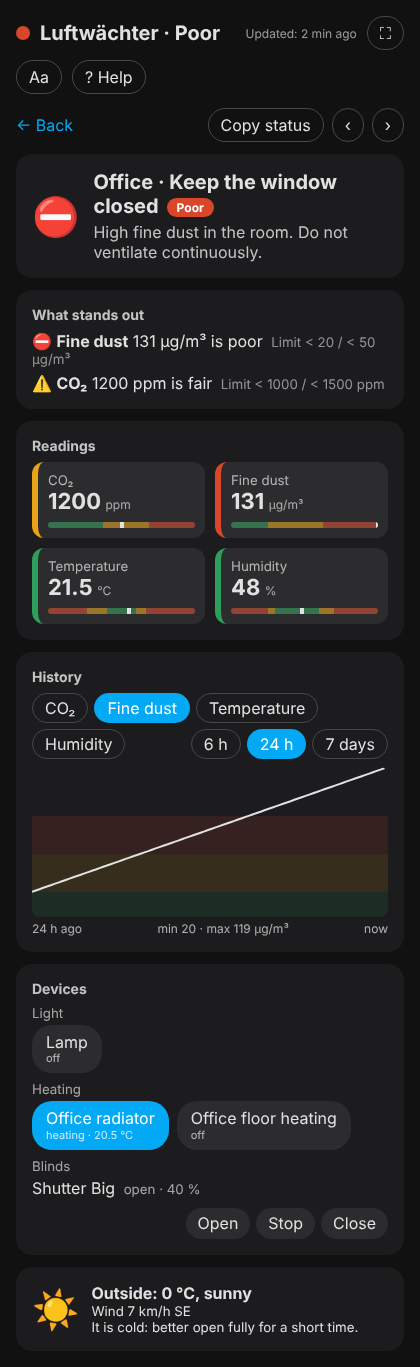
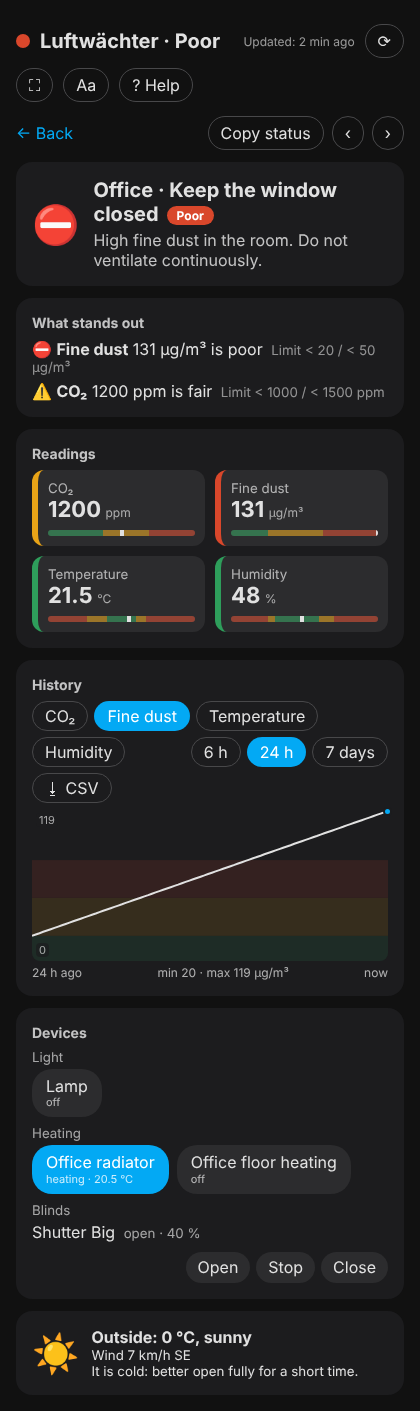
0.6.0: readings on tiles, CO2 ranking, chart axes and CSV, rotate mode, wake lock, hide areas, light theme check, demo GIF
Claude-Session: https://claude.ai/code/session_01W38UNCWRvMYfcRr6jVyi8m

diff --git a/custom_components/luftwaechter/frontend/luftwaechter-panel.js b/custom_components/luftwaechter/frontend/luftwaechter-panel.js
@@ -11,7 +11,7 @@ const UI = {
     cover_open: "Auf", cover_stop: "Stopp", cover_close: "Zu", allgood: "Alle Werte im grünen Bereich.",
     isPoor: "ist schlecht", isFair: "ist mittel", tooHigh: "zu hoch", tooLow: "zu niedrig", limit: "Grenze",
     attention: "Jetzt tun", nothing: "Nichts zu tun, alles in Ordnung.", rooms_n: "{a} von {n} Räumen brauchen Aufmerksamkeit", stale: "Die Daten sind möglicherweise veraltet (letztes Update vor {n} min).",
-    size: "Textgröße", onbTitle: "So kommen Räume ins Panel", onb1: "Weise CO₂-, Feinstaub-, Temperatur- oder Luftfeuchte-Sensoren einem Bereich zu (Einstellungen → Bereiche).", onb2: "Der Raum erscheint automatisch, sobald ein Sensor Werte liefert.", onb3: "Optional: Gib einem Fenstersensor die Geräteklasse „Fenster“, dann bekommst du Lüftungsempfehlungen.", noHouse: "Die Integration Luftwächter wurde nicht gefunden. Einstellungen → Geräte & Dienste → Integration hinzufügen → Luftwächter.", legend: "Punkte: CO₂ · Feinstaub · Temperatur · Luftfeuchte", avgT: "Ø im Haus", ventStart: "Lüftungs-Timer starten ({n} min)", ventRun: "Lüften läuft", ventDone: "Zeit ist um: Fenster jetzt schließen", ventStop: "Abbrechen", fs: "Vollbild", fsExit: "Vollbild beenden", copyAll: "Hausstatus kopieren", trendUp: "Steigend", trendDown: "Fallend", onlyProblems: "Nur Probleme", shortcuts: "Tastatur: ← → Raum wechseln · Esc zurück · S sortieren · O nur Probleme · F Vollbild · H Hilfe", copy: "Status kopieren", copied: "Kopiert", r6h: "6 h", r24h: "24 h", r7d: "7 Tage", a6h: "vor 6 h", a24h: "vor 24 h", a7d: "vor 7 Tagen", dayU: "Tg", hourU: "h",
+    size: "Textgröße", onbTitle: "So kommen Räume ins Panel", onb1: "Weise CO₂-, Feinstaub-, Temperatur- oder Luftfeuchte-Sensoren einem Bereich zu (Einstellungen → Bereiche).", onb2: "Der Raum erscheint automatisch, sobald ein Sensor Werte liefert.", onb3: "Optional: Gib einem Fenstersensor die Geräteklasse „Fenster“, dann bekommst du Lüftungsempfehlungen.", noHouse: "Die Integration Luftwächter wurde nicht gefunden. Einstellungen → Geräte & Dienste → Integration hinzufügen → Luftwächter.", legend: "Punkte: CO₂ · Feinstaub · Temperatur · Luftfeuchte", avgT: "Ø im Haus", ventStart: "Lüftungs-Timer starten ({n} min)", ventRun: "Lüften läuft", ventDone: "Zeit ist um: Fenster jetzt schließen", ventStop: "Abbrechen", fs: "Vollbild", fsExit: "Vollbild beenden", copyAll: "Hausstatus kopieren", trendUp: "Steigend", trendDown: "Fallend", onlyProblems: "Nur Probleme", rank: "CO₂ im Vergleich", rotate: "Räume automatisch durchschalten", csv: "CSV", shortcuts: "Tastatur: ← → Raum wechseln · Esc zurück · S sortieren · O nur Probleme · R durchschalten · F Vollbild · H Hilfe", copy: "Status kopieren", copied: "Kopiert", r6h: "6 h", r24h: "24 h", r7d: "7 Tage", a6h: "vor 6 h", a24h: "vor 24 h", a7d: "vor 7 Tagen", dayU: "Tg", hourU: "h",
     helpTitle: "Was bedeuten die Messwerte?", causes: "Mögliche Ursachen", todo: "Was hilft",
     hCo2: "CO₂ (Kohlendioxid) zeigt, wie verbraucht die Raumluft ist. Wir atmen es aus.",
     cCo2: "Viele Personen im Raum, Schlafen bei geschlossenem Fenster, kleine Räume, geschlossene Türen, Kerzen oder Gasflammen.",
@@ -36,7 +36,7 @@ const UI = {
     cover_open: "Open", cover_stop: "Stop", cover_close: "Close", allgood: "All readings are in the green.",
     isPoor: "is poor", isFair: "is fair", tooHigh: "too high", tooLow: "too low", limit: "Limit",
     attention: "Do now", nothing: "Nothing to do, all good.", rooms_n: "{a} of {n} rooms need attention", stale: "Data may be outdated (last update {n} min ago).",
-    size: "Text size", onbTitle: "How rooms get into the panel", onb1: "Assign CO₂, fine dust, temperature or humidity sensors to an area (Settings → Areas).", onb2: "The room appears automatically as soon as a sensor reports values.", onb3: "Optional: give a window sensor the device class \"window\" to get ventilation advice.", noHouse: "The Luftwächter integration was not found. Settings → Devices & services → Add integration → Luftwächter.", legend: "Dots: CO₂ · fine dust · temperature · humidity", avgT: "House average", ventStart: "Start ventilation timer ({n} min)", ventRun: "Ventilating", ventDone: "Time is up: close the window now", ventStop: "Cancel", fs: "Full screen", fsExit: "Exit full screen", copyAll: "Copy house status", trendUp: "Rising", trendDown: "Falling", onlyProblems: "Only problems", shortcuts: "Keyboard: ← → switch room · Esc back · S sort · O only problems · F full screen · H help", copy: "Copy status", copied: "Copied", r6h: "6 h", r24h: "24 h", r7d: "7 days", a6h: "6 h ago", a24h: "24 h ago", a7d: "7 days ago", dayU: "d", hourU: "h",
+    size: "Text size", onbTitle: "How rooms get into the panel", onb1: "Assign CO₂, fine dust, temperature or humidity sensors to an area (Settings → Areas).", onb2: "The room appears automatically as soon as a sensor reports values.", onb3: "Optional: give a window sensor the device class \"window\" to get ventilation advice.", noHouse: "The Luftwächter integration was not found. Settings → Devices & services → Add integration → Luftwächter.", legend: "Dots: CO₂ · fine dust · temperature · humidity", avgT: "House average", ventStart: "Start ventilation timer ({n} min)", ventRun: "Ventilating", ventDone: "Time is up: close the window now", ventStop: "Cancel", fs: "Full screen", fsExit: "Exit full screen", copyAll: "Copy house status", trendUp: "Rising", trendDown: "Falling", onlyProblems: "Only problems", rank: "CO₂ compared", rotate: "Rotate through rooms automatically", csv: "CSV", shortcuts: "Keyboard: ← → switch room · Esc back · S sort · O only problems · R rotate · F full screen · H help", copy: "Copy status", copied: "Copied", r6h: "6 h", r24h: "24 h", r7d: "7 days", a6h: "6 h ago", a24h: "24 h ago", a7d: "7 days ago", dayU: "d", hourU: "h",
     helpTitle: "What do the readings mean?", causes: "Possible causes", todo: "What helps",
     hCo2: "CO₂ (carbon dioxide) shows how stale the room air is. We breathe it out.",
     cCo2: "Many people in the room, sleeping with the window closed, small rooms, closed doors, candles or gas flames.",
@@ -64,6 +64,7 @@ const SCALE = {
   temperature: [5, 35, [[5, 13, 2], [13, 17, 1], [17, 23, 0], [23, 25, 1], [25, 35, 2]]],
   humidity: [0, 100, [[0, 25, 2], [25, 30, 1], [30, 60, 0], [60, 70, 1], [70, 100, 2]]],
 };
+const rooms_ok = (el) => el._rooms().length > 1;
 const esc = (s) => String(s ?? "").replace(/[&<>"']/g, (c) => ({ "&": "&amp;", "<": "&lt;", ">": "&gt;", '"': "&quot;", "'": "&#39;" }[c]));
 const store = {
   get(k) { try { return localStorage.getItem(k); } catch (e) { return null; } },
@@ -86,7 +87,9 @@ class LuftwaechterPanel extends HTMLElement {
     this._hist = {};
     try { const m = /[#&]room=([^&]+)/.exec(location.hash); if (m) this._sel = decodeURIComponent(m[1]); } catch (e) { /* ignore */ }
     try { const v = JSON.parse(store.get("lw_vent") || "null"); this._vent = v && v.end > Date.now() - 600000 ? v : null; } catch (e) { this._vent = null; }
-    this._onFs = () => this._render();
+    this._rot = false; this._rotTimer = null; this._wl = null;
+    this._onFs = () => { this._wakelock(); this._render(); };
+    this.shadowRoot.addEventListener("pointerdown", (ev) => { if (this._rot && !ev.composedPath().some((n) => n.id === "rot")) this._rotStop(false); }, true);
     this._onKey = (ev) => this._key(ev);
   }
   connectedCallback() {
@@ -95,7 +98,12 @@ class LuftwaechterPanel extends HTMLElement {
     this._vtick = setInterval(() => this._ventTick(), 1000);
     this._tick = setInterval(() => { const e = this._house(), el = this.shadowRoot.querySelector(".upd"); if (e && el) { el.textContent = this._age(e, this._t()); this._staleCheck(); } }, 30000);
   }
-  disconnectedCallback() { window.removeEventListener("keydown", this._onKey); document.removeEventListener("fullscreenchange", this._onFs); clearInterval(this._tick); clearInterval(this._vtick); }
+  disconnectedCallback() { window.removeEventListener("keydown", this._onKey); document.removeEventListener("fullscreenchange", this._onFs); clearInterval(this._tick); clearInterval(this._vtick); clearInterval(this._rotTimer); try { this._wl && this._wl.release(); } catch (e) { /* ignore */ } }
+  async _wakelock() { try { if (document.fullscreenElement && navigator.wakeLock) this._wl = await navigator.wakeLock.request("screen"); else if (this._wl) { await this._wl.release(); this._wl = null; } } catch (e) { /* ignore */ } }
+  _rotStep() { const rs = this._rooms(); if (!rs.length) return; const i = rs.findIndex((r) => r.key === this._sel); this._select(rs[(i + 1) % rs.length].key); }
+  _rotToggle() { if (this._rot) { this._rotStop(); return; } this._rot = true; this._rotTimer = setInterval(() => this._rotStep(), 12000); this._render(); }
+  _rotStop(render = true) { if (!this._rot) return; this._rot = false; clearInterval(this._rotTimer); if (render) this._render(); }
+  _closeHelp() { this._help = false; this._refocus = true; this._render(); }
   _ventLeft() { return this._vent ? Math.round((this._vent.end - Date.now()) / 1000) : null; }
   _fmtT(sec) { const m = Math.floor(Math.max(0, sec) / 60), r = Math.max(0, sec) % 60; return `${m}:${String(r).padStart(2, "0")}`; }
   _ventTick() {
@@ -156,15 +164,17 @@ class LuftwaechterPanel extends HTMLElement {
   _select(key) { this._sel = key; store.set("lw_room", key || ""); try { history.replaceState(null, "", key ? "#room=" + encodeURIComponent(key) : location.pathname + location.search); } catch (e) { /* ignore */ } this._render(); }
   _key(ev) {
     if (this.offsetParent === null && !this.isConnected) return;
-    if (ev.key === "Escape") { if (this._help) { this._help = false; this._render(); } else if (this._sel) this._select(null); return; }
+    if (ev.key === "Escape") { if (this._help) { this._closeHelp(); } else if (this._sel) this._select(null); return; }
     if (ev.ctrlKey || ev.metaKey || ev.altKey) return;
     const tg = ev.composedPath && ev.composedPath()[0];
     if (tg && (/^(INPUT|TEXTAREA|SELECT)$/.test(tg.tagName) || tg.isContentEditable)) return;
     const k = (ev.key || "").toLowerCase();
-    if (k === "h") { this._help = !this._help; this._render(); return; }
+    if (k === "h") { if (this._help) this._closeHelp(); else { this._help = true; this._render(); this.shadowRoot.querySelector("#hclose")?.focus(); } return; }
+    if (this._help && ev.key === "Tab") { ev.preventDefault(); this.shadowRoot.querySelector("#hclose")?.focus(); return; }
     if (!this._help) {
       if (k === "s" && !this._sel) { this._sort = this._sort === "worst" ? "name" : "worst"; store.set("lw_sort", this._sort); this._render(); return; }
       if (k === "o" && !this._sel) { this._only = !this._only; store.set("lw_only", this._only ? "1" : "0"); this._render(); return; }
+      if (k === "r" && rooms_ok(this)) { this._rotToggle(); return; }
       if (k === "f") { try { document.fullscreenElement ? document.exitFullscreen() : this.requestFullscreen(); } catch (e) { /* ignore */ } return; }
     }
     if (!this._sel || this._help) return;
@@ -232,9 +242,10 @@ class LuftwaechterPanel extends HTMLElement {
     this._render();
   }
   _chart(room, t) {
+    this._chartMeta = null;
     const key = this._chartKey, hk = this._histKey(room, key), h = this._hist[hk];
     const tabs = KEYS.map((k) => `<button class="chip ${k === key ? "sel" : ""}" data-chart="${k}" aria-pressed="${k === key}">${esc(t[k])}</button>`).join("") +
-      `<span class="rsp"></span>` + ["6h", "24h", "7d"].map((r) => `<button class="chip ${r === this._range ? "sel" : ""}" data-range="${r}" aria-pressed="${r === this._range}">${esc(t["r" + r])}</button>`).join("");
+      `<span class="rsp"></span>` + ["6h", "24h", "7d"].map((r) => `<button class="chip ${r === this._range ? "sel" : ""}" data-range="${r}" aria-pressed="${r === this._range}">${esc(t["r" + r])}</button>`).join("") + `<button class="chip" id="csv" title="CSV" aria-label="CSV">⭳ ${esc(t.csv)}</button>`;
     let body;
     if (!h || h.loading) body = `<div class="muted">${esc(t.loading)}</div>`;
     else if (h.error || !h.data || !h.data.some((v) => v != null)) body = `<div class="muted">${esc(t.nohist)}</div>`;
@@ -247,11 +258,18 @@ class LuftwaechterPanel extends HTMLElement {
       let path = "", pen = false;
       d.forEach((v, i) => { if (v == null) { pen = false; return; } path += `${pen ? "L" : "M"}${X(i).toFixed(1)},${Y(v).toFixed(1)} `; pen = true; });
       const unit = room.values.find((v) => v.key === key)?.unit || "";
-      body = `<div class="chartwrap"><svg viewBox="0 0 ${W} ${H}" preserveAspectRatio="none" role="img" aria-label="${esc(t[key])} ${esc(t.history)}">${bands}<path d="${path}" fill="none" stroke="var(--primary-text-color,#222)" stroke-width="2" vector-effect="non-scaling-stroke"/><line id="cur" x1="0" x2="0" y1="0" y2="${H}" stroke="var(--primary-color,#03a9f4)" stroke-width="1.5" vector-effect="non-scaling-stroke" visibility="hidden"/></svg>
+      const fv = (v) => (key === "temperature" ? v.toFixed(1) : String(Math.round(v)));
+      body = `<div class="chartwrap"><svg viewBox="0 0 ${W} ${H}" preserveAspectRatio="none" role="img" aria-label="${esc(t[key])} ${esc(t.history)}">${bands}<path d="${path}" fill="none" stroke="var(--primary-text-color,#222)" stroke-width="2" vector-effect="non-scaling-stroke"/><line id="cur" x1="0" x2="0" y1="0" y2="${H}" stroke="var(--primary-color,#03a9f4)" stroke-width="1.5" vector-effect="non-scaling-stroke" visibility="hidden"/></svg><span class="ylab" style="top:2px">${esc(fv(hi))}</span><span class="ylab" style="top:${H - 18}px">${esc(fv(lo))}</span><i class="nowdot" style="top:${(Y(d[d.length - 1] ?? lo) - 4).toFixed(0)}px" aria-hidden="true"></i>
         <div class="axis"><span>${esc(t["a" + this._range])}</span><span id="readout" aria-live="off">${esc(t.min)} ${mn.toFixed(key === "temperature" ? 1 : 0)} · ${esc(t.max)} ${mx.toFixed(key === "temperature" ? 1 : 0)} ${esc(unit)}</span><span>${esc(t.now_)}</span></div></div>`;
-      this._chartMeta = { d, unit, key, mn, mx, t, step: h.step || 900 };
+      this._chartMeta = { d, unit, key, mn, mx, t, step: h.step || 900, end: h.at, room: room.key };
     }
     return `<div class="card"><h3>${esc(t.history.replace("(24 h)", "").replace(/\s*$/, ""))}</h3><div class="chips">${tabs}</div>${body}</div>`;
+  }
+  _rank(rooms, t) {
+    const rows = rooms.map((r) => [r, r.values.find((v) => v.key === "co2")]).filter(([, v]) => v && v.raw != null).sort((a, b) => b[1].raw - a[1].raw);
+    if (rows.length < 2) return "";
+    const sc = this._scale("co2"), span = sc[1] - sc[0];
+    return `<div class="card rank"><h3>${esc(t.rank)}</h3>${rows.map(([r, v]) => `<button class="link rrow" data-room="${esc(r.key)}"><span>${esc(r.name)}</span><span class="rbar"><i style="width:${Math.max(3, Math.min(100, ((v.raw - sc[0]) / span) * 100)).toFixed(0)}%;background:${this._lcol(v.level)}"></i></span><b>${esc(v.value)} ppm</b></button>`).join("")}</div>`;
   }
   _gauge(v) {
     const sc = this._scale(v.key); if (!sc || v.raw == null) return "";
@@ -335,6 +353,9 @@ h3{margin:0 0 8px;font-size:14px;opacity:.85}h3 small{font-weight:400;opacity:.7
 .stats{display:flex;gap:8px;flex-wrap:wrap;margin:0 0 12px}.stats span{background:var(--card-background-color,#f4f6f8);border-radius:14px;padding:4px 12px;font-size:13px}.stats em{font-style:normal;opacity:.7;margin-right:4px}
 .legend{font-size:12px;margin:10px 2px 0}.vent{display:flex;align-items:center;gap:12px;flex-wrap:wrap}.venttime{font-size:22px;font-variant-numeric:tabular-nums}.vent.done{border:2px solid #d9472b}
 .tool[aria-pressed=true]{background:var(--primary-color,#03a9f4);color:#fff;border-color:transparent}
+header{position:sticky;top:0;z-index:5;background:var(--primary-background-color,#fff);padding:8px 0;margin-bottom:6px}
+.chartwrap{position:relative}.ylab{position:absolute;left:4px;font-size:11px;opacity:.7;pointer-events:none;background:var(--card-background-color,#f4f6f8);border-radius:4px;padding:0 3px}.nowdot{position:absolute;right:-4px;width:9px;height:9px;border-radius:50%;background:var(--primary-color,#03a9f4);border:2px solid var(--card-background-color,#fff);pointer-events:none}
+.mini{opacity:.8;font-size:12px;margin-top:4px}.rank{margin-top:12px}.rrow{display:grid;grid-template-columns:minmax(70px,26%) 1fr auto;gap:10px;align-items:center;width:100%;padding:5px 0}.rbar{display:block;height:10px;border-radius:5px;background:#8882;overflow:hidden}.rbar i{display:block;height:100%;border-radius:5px}
 .onb ol{margin:8px 0 0;padding-left:20px;display:grid;gap:6px}
 @media print{.tool,.back,#ovl,.chips{display:none!important}.wrap{max-width:none}}
 @media (prefers-reduced-motion:no-preference){.tile,.dev,.chip{transition:filter .15s}}`;
@@ -354,8 +375,8 @@ h3{margin:0 0 8px;font-size:14px;opacity:.85}h3 small{font-weight:400;opacity:.7
         const co2 = r.values.find((v) => v.key === "co2");
         return `<button class="tile" data-room="${esc(r.key)}" style="border-color:${this._col(r.level)}" aria-label="${esc(r.name)}: ${esc(t[r.level] || t.unknown)}">
           <b>${esc(r.name)}</b><span class="pill" style="background:${this._col(r.level)}">${esc(t[r.level] || t.unknown)}</span><small>${LVLICON[["good", "fair", "poor"].indexOf(r.level)] || "❔"} ${esc(r.headline)}</small>
-          ${bad ? `<small style="color:${COL[bad.level]}">${esc(t[bad.key])}: ${esc(bad.value)} ${esc(bad.unit)}</small>` : co2 && co2.raw != null ? `<small>${esc(co2.value)} ppm</small>` : ""}${r.trend === "up" || r.trend === "down" ? `<small>${r.trend === "up" ? "↗" : "↘"} ${esc(t[r.trend === "up" ? "trendUp" : "trendDown"])}</small>` : ""}<div class="dots" aria-hidden="true">${r.values.map((v) => `<i title="${esc(t[v.key])}: ${esc(v.value)} ${esc(v.unit)}" style="background:${this._lcol(v.level)}"></i>`).join("")}</div></button>`;
-      }).join("")}</div><p class="muted legend">${esc(t.legend)}</p>`;
+          ${bad ? `<small style="color:${COL[bad.level]}">${esc(t[bad.key])}: ${esc(bad.value)} ${esc(bad.unit)}</small>` : ""}<small class="mini">${r.values.filter((v) => v.raw != null).map((v) => esc(v.value) + "\u00a0" + esc(v.unit)).join(" · ")}</small>${r.trend === "up" || r.trend === "down" ? `<small>${r.trend === "up" ? "↗" : "↘"} ${esc(t[r.trend === "up" ? "trendUp" : "trendDown"])}</small>` : ""}<div class="dots" aria-hidden="true">${r.values.map((v) => `<i title="${esc(t[v.key])}: ${esc(v.value)} ${esc(v.unit)}" style="background:${this._lcol(v.level)}"></i>`).join("")}</div></button>`;
+      }).join("")}</div><p class="muted legend">${esc(t.legend)}</p>${this._rank(rooms, t)}`;
     } else {
       const li = rooms.findIndex((r) => r.key === sel.key);
       body = `<div class="nav"><button class="back" id="back">← ${esc(t.back)}</button><span class="sp"></span><button class="tool" id="copy">${esc(t.copy)}</button><button class="tool" id="prev" aria-label="${esc(t.prev)}">‹</button><button class="tool" id="next" aria-label="${esc(t.next)}">›</button></div>
@@ -368,8 +389,9 @@ h3{margin:0 0 8px;font-size:14px;opacity:.85}h3 small{font-weight:400;opacity:.7
     const o = a.outside;
     const out = o ? `<div class="card out"><span class="big">${esc(o.icon)}</span><div><b>${esc(t.outside)}: ${esc(o.temp)} °C, ${esc(o.cond)}</b><br><small>${esc(t.wind)} ${esc(o.wind)} km/h ${esc(o.windDir)}${o.hum && o.hum !== "–" ? " · " + esc(o.hum) + " %" : ""}</small><br><small>${esc(o.tip)}</small></div></div>` : "";
     root.innerHTML = `<style>${css}</style><div class="wrap" role="main"><header><span class="dot" style="background:${this._col(e.state)}"></span><h1 aria-live="polite">${esc(t.title)} · ${esc(t[e.state] || t.unknown)}</h1><span class="upd">${esc(this._age(e, t))}</span>
-      ${!sel && rooms.length > 1 ? `<button class="tool" id="only" aria-pressed="${this._only}">${esc(t.onlyProblems)}</button>` : ""}${!sel && rooms.length > 1 ? `<button class="tool" id="sort">${esc(this._sort === "worst" ? t.sortWorst : t.sortName)}</button>` : ""}${this._vent && (!sel || sel.key !== this._vent.key) ? `<button class="tool" id="ventpill" data-room="${esc(this._vent.key)}">⏱ <span class="venttime">${esc(this._fmtT(this._ventLeft()))}</span></button>` : ""}${!sel && rooms.length ? `<button class="tool" id="copyall" title="${esc(t.copyAll)}" aria-label="${esc(t.copyAll)}">⧉</button>` : ""}${document.fullscreenEnabled ? `<button class="tool" id="fs" title="${esc(document.fullscreenElement ? t.fsExit : t.fs)}" aria-label="${esc(document.fullscreenElement ? t.fsExit : t.fs)}">${document.fullscreenElement ? "🗗" : "⛶"}</button>` : ""}<button class="tool" id="size" aria-label="${esc(t.size)}" title="${esc(t.size)}">Aa</button><button class="tool" id="help" aria-label="${esc(t.help)}">? ${esc(t.help)}</button></header><div class="stale" id="stale" role="status" ${this._staleMin() < 10 ? "hidden" : ""}>${esc(t.stale.replace("{n}", this._staleMin()))}</div>${body}${out}${this._helpDlg(t)}</div>`;
+      ${!sel && rooms.length > 1 ? `<button class="tool" id="only" aria-pressed="${this._only}">${esc(t.onlyProblems)}</button>` : ""}${!sel && rooms.length > 1 ? `<button class="tool" id="sort">${esc(this._sort === "worst" ? t.sortWorst : t.sortName)}</button>` : ""}${this._vent && (!sel || sel.key !== this._vent.key) ? `<button class="tool" id="ventpill" data-room="${esc(this._vent.key)}">⏱ <span class="venttime">${esc(this._fmtT(this._ventLeft()))}</span></button>` : ""}${!sel && rooms.length ? `<button class="tool" id="copyall" title="${esc(t.copyAll)}" aria-label="${esc(t.copyAll)}">⧉</button>` : ""}${rooms.length > 1 ? `<button class="tool" id="rot" aria-pressed="${this._rot}" title="${esc(t.rotate)}" aria-label="${esc(t.rotate)}">⟳</button>` : ""}${document.fullscreenEnabled ? `<button class="tool" id="fs" title="${esc(document.fullscreenElement ? t.fsExit : t.fs)}" aria-label="${esc(document.fullscreenElement ? t.fsExit : t.fs)}">${document.fullscreenElement ? "🗗" : "⛶"}</button>` : ""}<button class="tool" id="size" aria-label="${esc(t.size)}" title="${esc(t.size)}">Aa</button><button class="tool" id="help" aria-label="${esc(t.help)}">? ${esc(t.help)}</button></header><div class="stale" id="stale" role="status" ${this._staleMin() < 10 ? "hidden" : ""}>${esc(t.stale.replace("{n}", this._staleMin()))}</div>${body}${out}${this._helpDlg(t)}</div>`;
     const q = (s) => root.querySelector(s), qa = (s) => root.querySelectorAll(s);
+    if (this._refocus) { this._refocus = false; q("#help")?.focus(); }
     qa(".tile").forEach((b) => b.addEventListener("click", () => this._select(b.dataset.room)));
     q("#back")?.addEventListener("click", () => this._select(null));
     const step = (d) => { const rs = this._rooms(); const i = rs.findIndex((r) => r.key === this._sel); this._select(rs[(i + d + rs.length) % rs.length].key); };
@@ -383,11 +405,17 @@ h3{margin:0 0 8px;font-size:14px;opacity:.85}h3 small{font-weight:400;opacity:.7
     q("#ventstart")?.addEventListener("click", (ev) => this._ventStart(sel.key, parseInt(ev.currentTarget.dataset.min, 10) || 5));
     q("#ventstop")?.addEventListener("click", () => this._ventStop());
     q("#ventpill")?.addEventListener("click", (ev) => this._select(ev.currentTarget.dataset.room));
+    q("#rot")?.addEventListener("click", () => this._rotToggle());
+    q("#csv")?.addEventListener("click", () => {
+      const m = this._chartMeta; if (!m || !sel || m.room !== sel.key) return;
+      const rows = ["time,value"].concat(m.d.map((v, i) => `${new Date(m.end - (m.d.length - 1 - i) * m.step * 1000).toISOString()},${v == null ? "" : v}`));
+      const a = document.createElement("a"); a.href = URL.createObjectURL(new Blob([rows.join("\n")], { type: "text/csv" })); a.download = `luftwaechter-${sel.key}-${m.key}-${this._range}.csv`; a.click(); setTimeout(() => URL.revokeObjectURL(a.href), 1000);
+    });
     q("#fs")?.addEventListener("click", () => { try { document.fullscreenElement ? document.exitFullscreen() : this.requestFullscreen(); } catch (e) { /* ignore */ } });
     q("#copyall")?.addEventListener("click", async (ev) => { const b = ev.currentTarget; try { await navigator.clipboard.writeText(this._houseText(rooms, a, t)); b.textContent = "✓"; } catch (er) { b.textContent = "✗"; } });
     q("#help")?.addEventListener("click", () => { this._help = true; this._render(); q("#hclose")?.focus(); });
-    q("#hclose")?.addEventListener("click", () => { this._help = false; this._render(); });
-    q("#ovl")?.addEventListener("click", (ev) => { if (ev.target.id === "ovl") { this._help = false; this._render(); } });
+    q("#hclose")?.addEventListener("click", () => { this._closeHelp(); });
+    q("#ovl")?.addEventListener("click", (ev) => { if (ev.target.id === "ovl") { this._closeHelp(); } });
     qa(".chip[data-chart]").forEach((b) => b.addEventListener("click", () => { this._chartKey = b.dataset.chart; this._render(); }));
     qa(".dev[data-dom]").forEach((b) => b.addEventListener("click", () => this._toggle(b.dataset.ent, b.dataset.dom)));
     qa("[data-cov]").forEach((b) => b.addEventListener("click", () => this._call("cover", b.dataset.cov, b.dataset.ent)));

diff --git a/tests/panel.spec.py b/tests/panel.spec.py
@@ -44,6 +44,9 @@ with sync_playwright() as p:
     assert tiles == ["Office", "Bedroom"], tiles            # worst first
     assert "Do now" in txt() and "1 of 2 rooms need attention" in txt().replace("2 of 2","1 of 2") or "of 2 rooms need attention" in txt()
     assert pg.evaluate("el.shadowRoot.querySelectorAll('.dots i').length") == 8
+    assert pg.evaluate("el.shadowRoot.querySelectorAll('.mini').length") == 2 and "640 ppm" in txt()
+    assert "CO₂ compared" in txt() and pg.evaluate("el.shadowRoot.querySelectorAll('.rrow').length") == 2
+    assert pg.evaluate("getComputedStyle(el.shadowRoot.querySelector('header')).position") == "sticky"
     assert "Fine dust: 131" in txt() and "Updated: 2 min ago" in txt() and "–" not in pg.evaluate("el.shadowRoot.querySelector('.out small').textContent")
     pg.screenshot(path=str(out / "overview.png"))
     clk("#size"); assert "19px" in pg.evaluate("el.shadowRoot.querySelector('style').textContent"); clk("#size"); clk("#size")   # back to 16px
@@ -60,6 +63,9 @@ with sync_playwright() as p:
     pg.screenshot(path=str(out / "room_desktop.png"))
     clk("[data-range=\"7d\"]"); pg.wait_for_function("window.ws && el._range==='7d' && el.shadowRoot.querySelector('.chartwrap svg path') !== null || el.shadowRoot.textContent.includes('No history')")
     assert "7 days ago" in txt(), pg.evaluate("JSON.stringify(Object.fromEntries(Object.entries(el._hist).map(([k,v])=>[k,{e:v.error,l:v.loading,n:v.data&&v.data.filter(x=>x!=null).length}])))")
+    assert pg.evaluate("el.shadowRoot.querySelectorAll('.ylab').length") == 2 and pg.evaluate("!!el.shadowRoot.querySelector('.nowdot')")
+    pg.evaluate("window.dl = []; HTMLAnchorElement.prototype.click = function () { window.dl.push(this.download); }; URL.createObjectURL = () => 'blob:x';")
+    clk("#csv"); assert pg.evaluate("window.dl[0]").startswith("luftwaechter-o-co2-"), pg.evaluate("window.dl")
     pg.evaluate("Object.defineProperty(navigator,'clipboard',{value:{writeText:async(t)=>{window.copied=t}},configurable:true})")
     clk("#copy"); pg.wait_for_function("window.copied"); assert "Office" in pg.evaluate("window.copied")
     clk("[data-range=\"24h\"]")
@@ -113,6 +119,17 @@ with sync_playwright() as p:
     assert "Jetzt tun" in txt() and "Fenster zu lassen" in txt()
     pg.screenshot(path=str(out / "overview_de.png"))
     pg.evaluate("() => { const h = el._hass; h.language = 'en'; const e = h.states['sensor.luftwaechter_house']; e.attributes = window.orig; e.last_updated = 't10'; el.hass = Object.assign({}, h); }")
+    # help dialog focus handling, room rotation, light theme
+    pg.keyboard.press("h"); assert pg.evaluate("el.shadowRoot.activeElement && el.shadowRoot.activeElement.id") == "hclose"
+    pg.keyboard.press("Tab"); assert pg.evaluate("el.shadowRoot.activeElement.id") == "hclose"
+    pg.keyboard.press("Escape"); assert pg.evaluate("el.shadowRoot.activeElement && el.shadowRoot.activeElement.id") == "help"
+    pg.keyboard.press("r"); assert pg.evaluate("el._rot") is True
+    pg.evaluate("el._rotStop()"); assert pg.evaluate("el._rot") is False
+    pg.evaluate("el._rotStep()"); first = pg.evaluate("el._sel"); pg.evaluate("el._rotStep()"); assert pg.evaluate("el._sel") != first
+    pg.evaluate("el._select(null)")
+    pg.evaluate("() => { document.documentElement.style.cssText = '--primary-background-color:#fafafa;--card-background-color:#ffffff;--secondary-background-color:#eceff1;--primary-text-color:#212121;--primary-color:#03a9f4;--divider-color:#0002'; document.body.style.background = '#fafafa'; el._render(); }")
+    pg.screenshot(path=str(out / "overview_light.png"))
+    pg.evaluate("() => { document.documentElement.style.cssText = ''; document.body.style.background = ''; el._render(); }")
     # onboarding for a house without rooms, and deep link via URL hash
     pg.evaluate("""() => { const h2 = { language: 'en', states: { 'sensor.luftwaechter_house': { entity_id: 'sensor.luftwaechter_house', state: 'unknown', last_updated: 'x', attributes: { rooms: [], summary: [], lang: 'en', updated: Math.floor(Date.now() / 1000) } } } };
       const e2 = document.createElement('luftwaechter-panel'); document.body.appendChild(e2); e2.hass = h2; window.e2 = e2; }""")
@@ -127,12 +144,22 @@ with sync_playwright() as p:
     if docs:
         docs.mkdir(exist_ok=True)
         import shutil
-        for src, dst, maxh in (("overview", "overview", 9999), ("room_desktop", "room", 9999), ("help", "help", 9999), ("room_phone", "phone", 9999), ("overview_de", "overview_de", 9999), ("timer", "timer", 300)):
+        for src, dst, maxh in (("overview", "overview", 9999), ("room_desktop", "room", 9999), ("help", "help", 9999), ("room_phone", "phone", 9999), ("overview_de", "overview_de", 9999), ("overview_light", "overview_light", 9999), ("timer", "timer", 300)):
             from PIL import Image, ImageChops
             im = Image.open(out / f"{src}.png").convert("RGB")
             bgc = Image.new("RGB", im.size, (17, 17, 17))
             bbox = ImageChops.difference(im, bgc).getbbox()
             h = min(im.height, maxh, (bbox[3] if bbox else im.height) + 24)
             im.crop((0, 0, im.width, h)).save(docs / f"{dst}.png", optimize=True)
+        # animated demo for the README: overview, room, timer, German
+        frames = []
+        for name in ("overview", "room", "timer", "overview_de"):
+            im = Image.open(docs / f"{name}.png").convert("RGB"); im = im.resize((820, round(im.height * 820 / im.width)))
+            frames.append(im)
+        hmax = max(f.height for f in frames)
+        canvas = []
+        for f in frames:
+            c = Image.new("RGB", (820, hmax), (17, 17, 17)); c.paste(f, (0, 0)); canvas.append(c.quantize(colors=96, method=Image.Quantize.MEDIANCUT))
+        canvas[0].save(docs / "demo.gif", save_all=True, append_images=canvas[1:], duration=2200, loop=0, optimize=True)
     b.close()
 print("panel ok")

diff --git a/custom_components/luftwaechter/config_flow.py b/custom_components/luftwaechter/config_flow.py
@@ -9,7 +9,7 @@ from homeassistant.config_entries import ConfigEntry, ConfigFlow, OptionsFlow
 from homeassistant.core import callback
 from homeassistant.helpers import selector
 
-from .const import CONF_CO2_FAIR, CONF_CO2_GOOD, CONF_PM_FAIR, CONF_PM_GOOD, CONF_WEATHER, DOMAIN
+from .const import CONF_CO2_FAIR, CONF_CO2_GOOD, CONF_EXCLUDE, CONF_PM_FAIR, CONF_PM_GOOD, CONF_WEATHER, DOMAIN
 
 SCHEMA = vol.Schema(
     {
@@ -58,6 +58,9 @@ class LuftwaechterOptionsFlow(OptionsFlow):
             {
                 vol.Optional(CONF_WEATHER, description={"suggested_value": cur}): selector.EntitySelector(
                     selector.EntitySelectorConfig(domain="weather")
+                ),
+                vol.Optional(CONF_EXCLUDE, description={"suggested_value": o.get(CONF_EXCLUDE, [])}): selector.AreaSelector(
+                    selector.AreaSelectorConfig(multiple=True)
                 ),
                 vol.Required(CONF_CO2_GOOD, default=o.get(CONF_CO2_GOOD, 1000)): _num(400, 5000, "ppm"),
                 vol.Required(CONF_CO2_FAIR, default=o.get(CONF_CO2_FAIR, 1500)): _num(400, 5000, "ppm"),

diff --git a/tests/test_integration.py b/tests/test_integration.py
@@ -92,3 +92,17 @@ async def test_options_flow_validates_and_applies_limits(hass, enable_custom_int
     assert ok["type"] == "create_entry"
     await hass.async_block_till_done()
     assert hass.states.get("sensor.luftwachter_house").state == "good"
+
+
+async def test_excluded_areas_are_hidden(hass, enable_custom_integrations):
+    entry, _ = await _setup(hass, "700")
+    assert hass.states.get("sensor.luftwachter_office") is not None
+    area_id = hass.data[DOMAIN][entry.entry_id].data["rooms"][0]["key"]
+    flow = await hass.config_entries.options.async_init(entry.entry_id)
+    res = await hass.config_entries.options.async_configure(
+        flow["flow_id"],
+        {"co2_good": 1000, "co2_fair": 1500, "pm_good": 20, "pm_fair": 50, "excluded_areas": [area_id]},
+    )
+    assert res["type"] == "create_entry"
+    await hass.async_block_till_done()
+    assert hass.data[DOMAIN][entry.entry_id].data["rooms"] == []

diff --git a/custom_components/luftwaechter/coordinator.py b/custom_components/luftwaechter/coordinator.py
@@ -16,7 +16,7 @@ from homeassistant.util import dt as dt_util
 
 from . import engine
 from .const import (
-    CONF_CO2_FAIR, CONF_CO2_GOOD, CONF_PM_FAIR, CONF_PM_GOOD, CONF_WEATHER, DOMAIN,
+    CONF_CO2_FAIR, CONF_CO2_GOOD, CONF_EXCLUDE, CONF_PM_FAIR, CONF_PM_GOOD, CONF_WEATHER, DOMAIN,
     EVENT_LEVEL_CHANGED, LABEL, SCAN_SECONDS,
 )
 
@@ -147,6 +147,8 @@ class LuftwaechterCoordinator(DataUpdateCoordinator[dict]):
     async def _async_update_data(self) -> dict:
         self.lang = (self.hass.config.language or "en").split("-")[0]
         areas, labelled = self._collect_areas()
+        excluded = set(self.entry.options.get(CONF_EXCLUDE) or [])
+        areas = [a for a in areas if a["id"] not in excluded]
         weather, rain_at = await self._weather()
         model = engine.build_model(areas, labelled, weather, rain_at, self.lang, dt_util.utcnow().timestamp(), self._limits())
         self._annotate(model)

diff --git a/custom_components/luftwaechter/__init__.py b/custom_components/luftwaechter/__init__.py
@@ -15,7 +15,7 @@ from .coordinator import LuftwaechterCoordinator
 
 PLATFORMS = ["sensor"]
 CONFIG_SCHEMA = cv.config_entry_only_config_schema(DOMAIN)
-_VERSION = "0.5.0"
+_VERSION = "0.6.0"
 
 
 async def async_setup(hass: HomeAssistant, config: ConfigType) -> bool:

diff --git a/custom_components/luftwaechter/const.py b/custom_components/luftwaechter/const.py
@@ -9,4 +9,5 @@ CONF_CO2_GOOD = "co2_good"
 CONF_CO2_FAIR = "co2_fair"
 CONF_PM_GOOD = "pm_good"
 CONF_PM_FAIR = "pm_fair"
+CONF_EXCLUDE = "excluded_areas"
 EVENT_LEVEL_CHANGED = "luftwaechter_level_changed"

diff --git a/README.md b/README.md
@@ -6,13 +6,16 @@
 [![Release](https://img.shields.io/github/v/release/DanStasiak/luftwaechter-ha)](https://github.com/DanStasiak/luftwaechter-ha/releases)
 ![Home Assistant Marketplace](https://img.shields.io/badge/Home%20Assistant-Marketplace%20%7C%20HACS-41BDF5.svg)
 [![License: MIT](https://img.shields.io/github/license/DanStasiak/luftwaechter-ha)](LICENSE)
+[![Last commit](https://img.shields.io/github/last-commit/DanStasiak/luftwaechter-ha)](https://github.com/DanStasiak/luftwaechter-ha/commits/main)
+[![Stars](https://img.shields.io/github/stars/DanStasiak/luftwaechter-ha?style=flat)](https://github.com/DanStasiak/luftwaechter-ha/stargazers)
+[![Issues](https://img.shields.io/github/issues/DanStasiak/luftwaechter-ha)](https://github.com/DanStasiak/luftwaechter-ha/issues)
 
 Room air quality, ventilation advice and window hints for Home Assistant, with a sidebar panel for the whole household.
 Companion to the [Luftwächter Windows widget](https://github.com/DanStasiak/airguard-widget). German and English, no cloud, no extra requests.
 
 [![Open your Home Assistant instance and add this repository to the Marketplace.](https://my.home-assistant.io/badges/hacs_repository.svg)](https://my.home-assistant.io/redirect/hacs_repository/?owner=DanStasiak&repository=luftwaechter-ha&category=integration)
 
-<p align="center"><img src="https://raw.githubusercontent.com/DanStasiak/luftwaechter-ha/main/docs/overview.png" width="640" alt="Overview: what to do now, room tiles with indicator dots"></p>
+<p align="center"><img src="https://raw.githubusercontent.com/DanStasiak/luftwaechter-ha/main/docs/demo.gif" width="640" alt="Demo: overview, room view, ventilation timer, German interface"></p>
 
 **Contents:** [Features](#features) · [Install](#install-marketplace) · [Update](#update) · [How it works](#how-it-works) · [Limits](#limits) · [Entities](#entities) · [Settings](#settings) · [Events](#events-for-automations) · [Wall tablet tips](#wall-tablet-tips) · [FAQ](#faq) · [Roadmap](#roadmap) · [Troubleshooting](#troubleshooting) · [Privacy](#privacy)
 
@@ -23,6 +26,10 @@ Companion to the [Luftwächter Windows widget](https://github.com/DanStasiak/air
 - **Help built in**: what each reading means, typical causes of bad values, what helps.
 - **Devices per room**: lights, heating, blinds (open / stop / close) with live state.
 - **Made for shared screens**: text size switch for wall tablets, remembers your last room, arrow keys, stale-data warning.
+- **Readings at a glance**: every tile lists all four readings, and a CO₂ ranking compares the rooms.
+- **Better charts**: axis labels, a marker for the latest value, and a CSV download of the shown history.
+- **Light and dark**: follows your Home Assistant theme.
+- **Hide areas** you do not want in the panel (garage, cellar).
 - **Your limits**: adjust the CO₂ and fine dust limits in the integration options.
 - **Trends and events**: rising/falling arrows, and an event whenever a room changes level, for your own automations.
 - **Keyboard shortcuts** for wall tablets and desktops.
@@ -31,6 +38,10 @@ Companion to the [Luftwächter Windows widget](https://github.com/DanStasiak/air
 - **Your language, per person**: each user sees the panel in their own profile language (English or German).
 - **Easy to start**: a built-in guide when no rooms are found yet, deep links (`#room=<name>`) and a full-screen button.
 - **Entities for automations**: one sensor per room and a house sensor.
+
+| Light theme | Phone |
+|---|---|
+| <img src="https://raw.githubusercontent.com/DanStasiak/luftwaechter-ha/main/docs/overview_light.png" width="420" alt="Light theme"> | <img src="https://raw.githubusercontent.com/DanStasiak/luftwaechter-ha/main/docs/phone.png" width="200" alt="Phone layout"> |
 
 | German | Ventilation timer |
 |---|---|
@@ -55,7 +66,7 @@ Requires Home Assistant 2025.10 or newer.
 3. Hard-refresh the browser (Ctrl+Shift+R) or reopen the app, so the panel loads the new JavaScript.
 
 ## Settings
-**Settings → Devices & services → Luftwächter → Configure**: choose the weather entity and the CO₂ and fine dust limits (defaults 1000 / 1500 ppm and 20 / 50 µg/m³). Temperature and humidity use fixed comfort ranges. The panel, gauges and advice follow your limits.
+**Settings → Devices & services → Luftwächter → Configure**: choose the weather entity, the areas to hide, and the CO₂ and fine dust limits (defaults 1000 / 1500 ppm and 20 / 50 µg/m³). Temperature and humidity use fixed comfort ranges. The panel, gauges and advice follow your limits.
 
 ## How it works
 ```mermaid
@@ -119,7 +130,9 @@ The room attribute `trend` is `up`, `down` or `flat` (CO₂ or fine dust compare
 - **Download diagnostics** (device page, three dots) gives a compact, anonymous report for bug reports: levels, readings, sources and device ids, no names of people or accounts.
 
 ## Wall tablet tips
-- Keyboard: ← → switch room, Esc back, **S** sort, **O** only problems, **F** full screen, **H** help.
+- Keyboard: ← → switch room, Esc back, **S** sort, **O** only problems, **R** rotate rooms, **F** full screen, **H** help.
+- **Rotate** (⟳ button or **R**) steps through the rooms every 12 seconds; a tap stops it. In full screen the panel asks the tablet to keep the screen on.
+- The header stays visible while you scroll.
 - Open the panel once, choose the **Aa** size, press the full-screen button.
 - Link straight to a room: `https://<your-ha>/luftwaechter#room=<room-key>` (the key is shown in the sensor attributes).
 - The panel warns when its data is older than 10 minutes, so a frozen tablet is visible.

diff --git a/CHANGELOG.md b/CHANGELOG.md
@@ -1,5 +1,15 @@
 # Changelog
 
+## 0.6.0
+- Tiles list all four readings, and a new CO₂ ranking card compares the rooms.
+- History chart: axis labels, a marker for the latest value, and a CSV download.
+- Rotate mode (⟳ or R) steps through the rooms for wall displays; full screen asks the device to keep the screen on.
+- Header stays visible while scrolling; the help dialog keeps keyboard focus and returns it when closed.
+- Verified in light and dark themes.
+- New option: hide areas you do not want in the panel.
+- README: animated demo, light theme and phone screenshots, more badges, updated settings and tablet tips.
+- DE: Messwerte auf allen Kacheln, CO₂-Vergleich, Achsenbeschriftung und CSV-Export, Durchschalt-Modus, Bereiche ausblenden, Hell/Dunkel geprüft, neue Demo in der README.
+
 ## 0.5.0
 - Docs: install and update now use the Home Assistant **Marketplace** (it replaced HACS in 2026.11), with the new "Add from link" steps and the risk notice; HACS steps still work on older versions.
 - Settings: adjustable CO₂ and fine dust limits (Configure on the integration); panel gauges, help and advice follow them.
